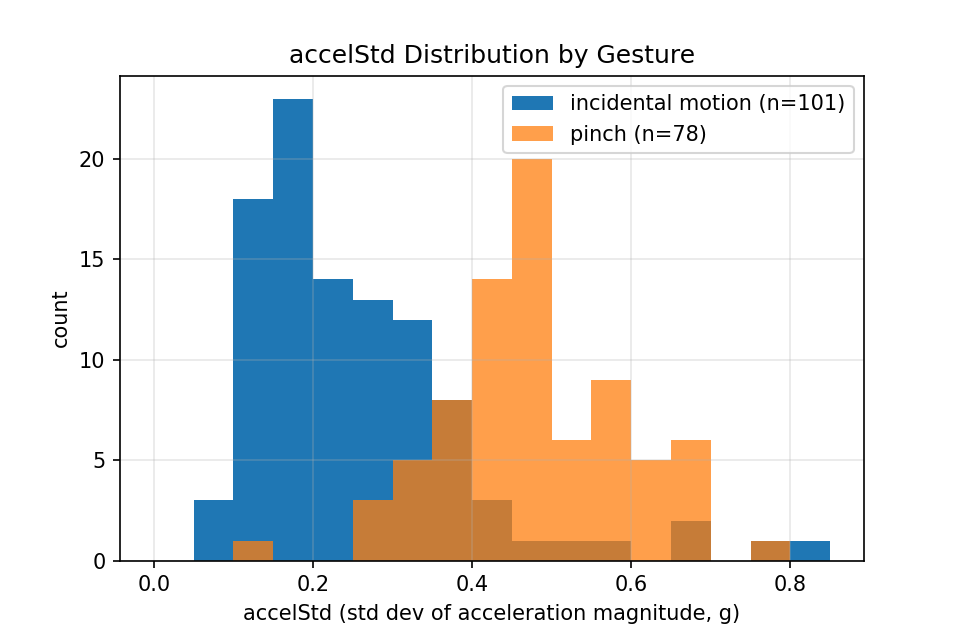
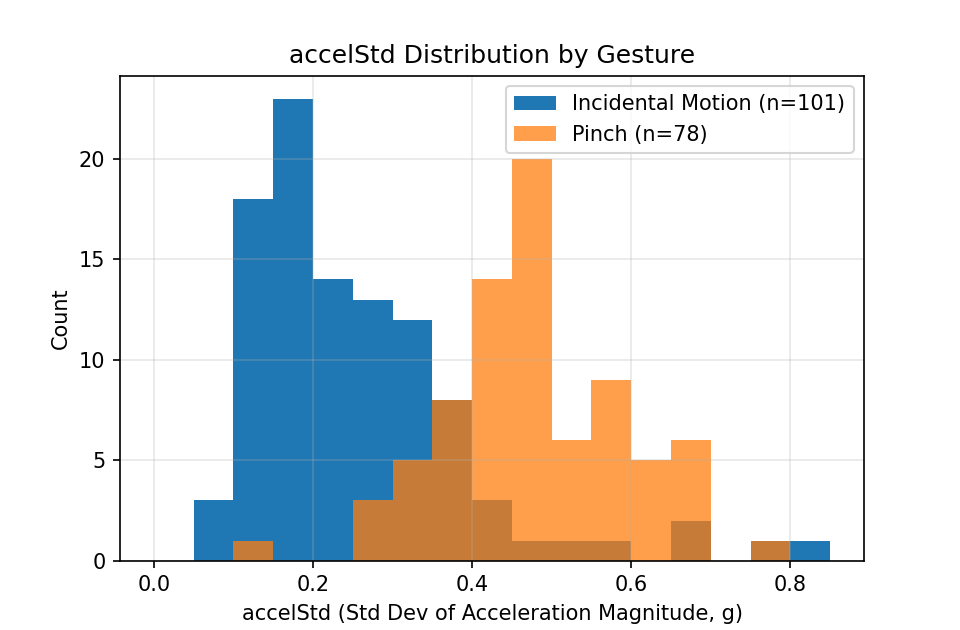
Use title case for figure axis/legend labels
Matches the journal's figure-label formatting requirement.

diff --git a/research/make_figures.py b/research/make_figures.py
@@ -35,11 +35,11 @@ none_std = [r["accelStd"] for r in lrows if r["truth"] == "NONE"]
 
 fig, ax = plt.subplots(figsize=(6.4, 4.2))
 bins = [i / 20 for i in range(0, 18)]
-ax.hist(none_std, bins=bins, label=f"incidental motion (n={len(none_std)})")
-ax.hist(pinch_std, bins=bins, label=f"pinch (n={len(pinch_std)})", alpha=0.75)
+ax.hist(none_std, bins=bins, label=f"Incidental Motion (n={len(none_std)})")
+ax.hist(pinch_std, bins=bins, label=f"Pinch (n={len(pinch_std)})", alpha=0.75)
 ax.set_title("accelStd Distribution by Gesture")
-ax.set_xlabel("accelStd (std dev of acceleration magnitude, g)")
-ax.set_ylabel("count")
+ax.set_xlabel("accelStd (Std Dev of Acceleration Magnitude, g)")
+ax.set_ylabel("Count")
 ax.grid(True, alpha=0.3)
 ax.legend()
 fig.savefig(f"{OUT}/lyra_fig1_accelstd_separation.png", dpi=150)
@@ -56,10 +56,10 @@ for d in depths:
 
 fig, ax = plt.subplots(figsize=(6.8, 3.8))
 for g in ["FLICK", "TWIST", "PINCH"]:
-    ax.plot(depths, acc_by_gesture[g], marker="o", label=g.lower())
+    ax.plot(depths, acc_by_gesture[g], marker="o", label=g.capitalize())
 ax.set_title("Flick Accuracy vs. Tree Depth")
-ax.set_xlabel("pure-tree max depth")
-ax.set_ylabel("LOSO accuracy (%)")
+ax.set_xlabel("Pure-Tree Max Depth")
+ax.set_ylabel("LOSO Accuracy (%)")
 ax.set_ylim(0, 105)
 ax.legend(frameon=False)
 fig.savefig(f"{OUT}/lyra_fig2_tree_overfitting.png", dpi=150)
@@ -106,12 +106,12 @@ hybrid_vals = [hybrid_acc[g.upper()] for g in gestures]
 fig, ax = plt.subplots(figsize=(6.0, 4.3))
 x = range(len(gestures))
 w = 0.35
-ax.bar([i - w / 2 for i in x], rules_vals, width=w, label="rules only")
-ax.bar([i + w / 2 for i in x], hybrid_vals, width=w, label="deployed hybrid")
+ax.bar([i - w / 2 for i in x], rules_vals, width=w, label="Rules Only")
+ax.bar([i + w / 2 for i in x], hybrid_vals, width=w, label="Deployed Hybrid")
 ax.set_title("Accuracy: Rules vs. Hybrid")
 ax.set_xticks(list(x))
 ax.set_xticklabels(gestures)
-ax.set_ylabel("LOSO accuracy (%)")
+ax.set_ylabel("LOSO Accuracy (%)")
 ax.set_ylim(0, 105)
 ax.legend()
 fig.savefig(f"{OUT}/lyra_fig3_before_after.png", dpi=150)
